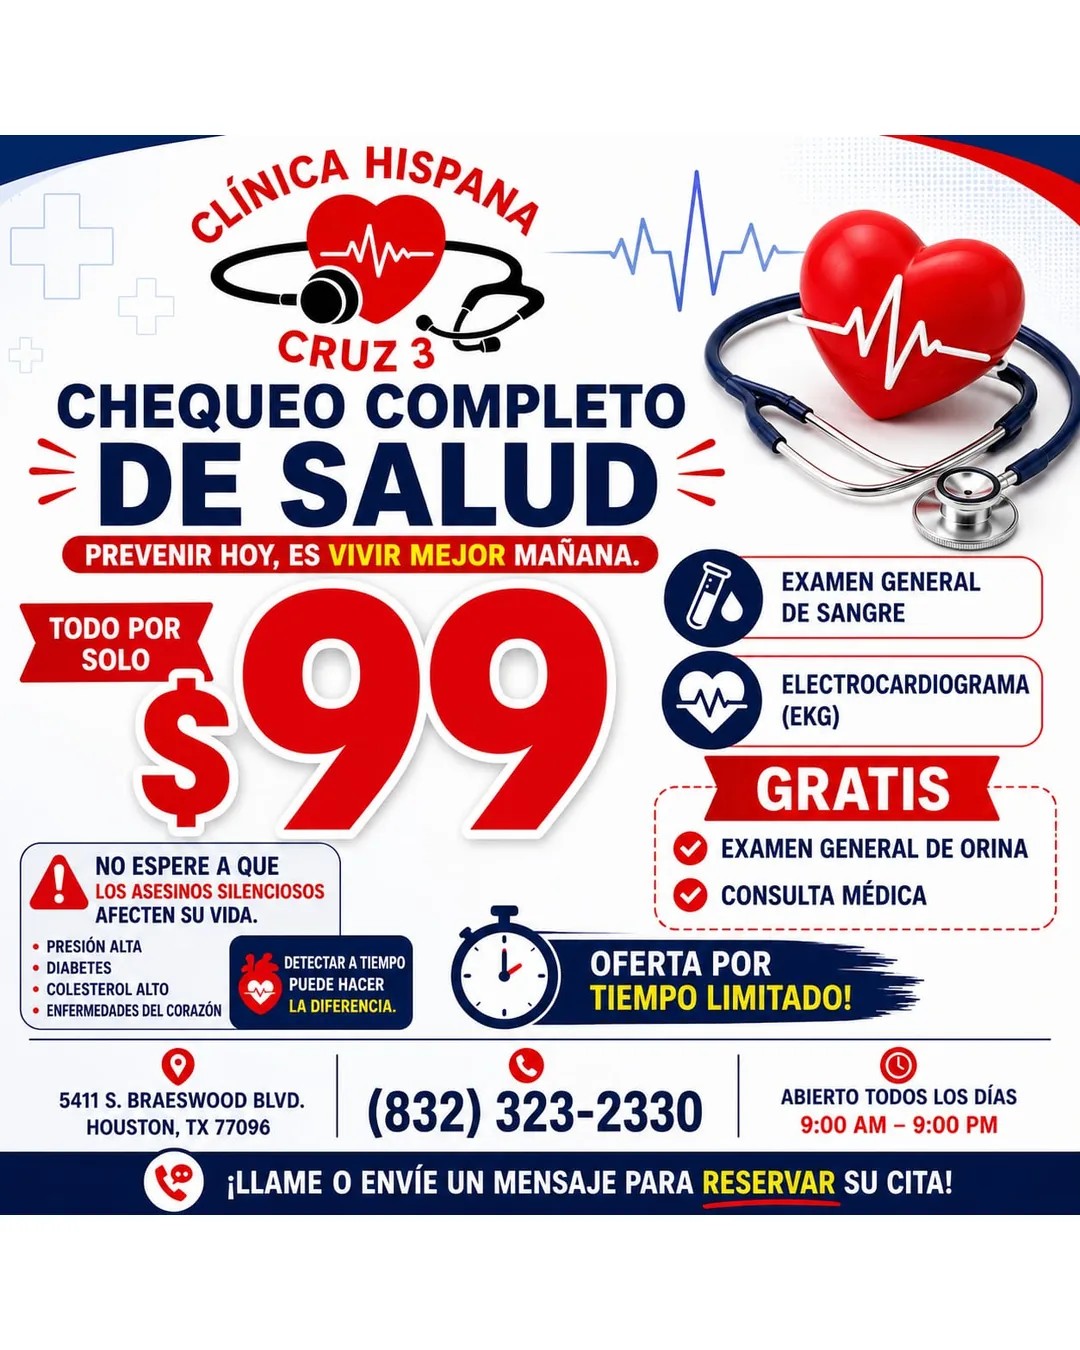
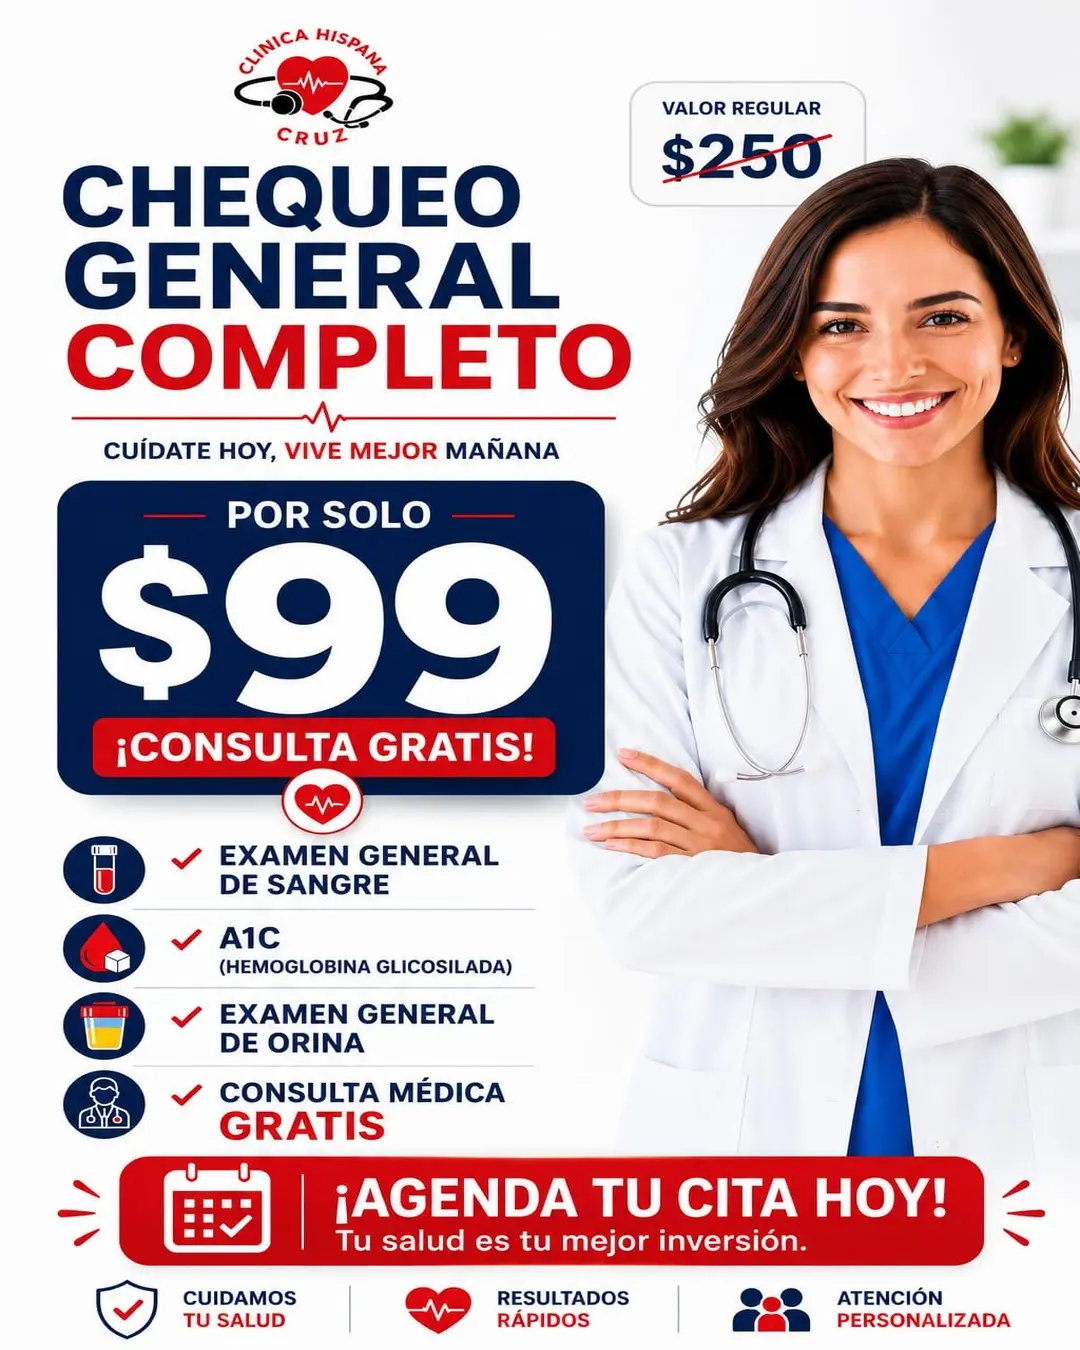
feat(promotions): update general checkup promo with new flyer and A1C details

diff --git a/src/lib/constants.ts b/src/lib/constants.ts
@@ -1226,28 +1226,28 @@ export const SERVICES: Service[] = [
 export const PROMOTIONS: Promotion[] = [
   {
     slug: "chequeo-completo-salud",
-    title: "Chequeo Completo de Salud",
-    titleEn: "Complete Health Checkup",
+    title: "Chequeo General Completo",
+    titleEn: "Complete General Checkup",
     price: "$99",
     blurb:
-      "Chequeo preventivo completo para detectar a tiempo presión alta, diabetes, colesterol alto y enfermedades del corazón. Incluye examen de sangre y electrocardiograma, con orina y consulta médica gratis.",
+      "Cuídate hoy, vive mejor mañana. Chequeo general completo por solo $99 (valor regular $250) para detectar a tiempo presión alta, diabetes y colesterol alto. Incluye examen general de sangre, A1C y examen de orina, con consulta médica gratis.",
     blurbEn:
-      "A complete preventive checkup to detect high blood pressure, diabetes, high cholesterol and heart disease early. Includes blood work and an EKG, with free urine test and medical consultation.",
+      "Take care of yourself today, live better tomorrow. Complete general checkup for only $99 (regular value $250) to detect high blood pressure, diabetes and high cholesterol early. Includes complete blood work, A1C and urine test, with a free medical consultation.",
     includes: [
       "Examen general de sangre",
-      "Electrocardiograma (EKG)",
-      "Examen general de orina gratis",
+      "A1C (hemoglobina glicosilada)",
+      "Examen general de orina",
       "Consulta médica gratis",
     ],
     includesEn: [
       "Complete blood panel",
-      "Electrocardiogram (EKG)",
-      "Free urine test",
+      "A1C (glycated hemoglobin)",
+      "Complete urine test",
       "Free medical consultation",
     ],
     image: "/images/promotions/chequeo-completo-salud.webp",
-    alt: "Promoción de chequeo completo de salud por $99 con examen de sangre y electrocardiograma en Clínica Hispana Cruz #3 Houston",
-    altEn: "Complete health checkup promotion for $99 with blood work and EKG at Clínica Hispana Cruz #3 Houston",
+    alt: "Promoción de chequeo general completo por $99 con examen de sangre, A1C y examen de orina en Clínica Hispana Cruz #3 Houston",
+    altEn: "Complete general checkup promotion for $99 with blood work, A1C and urine test at Clínica Hispana Cruz #3 Houston",
     highlighted: true,
     order: 1,
   },
